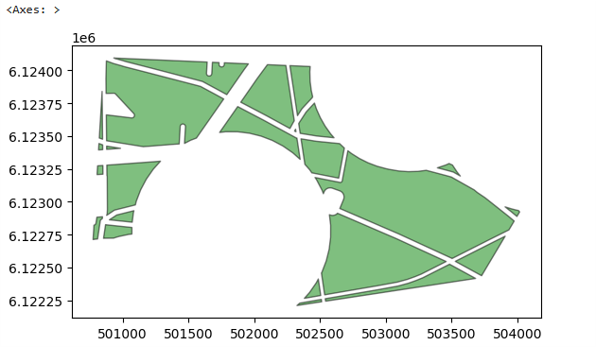
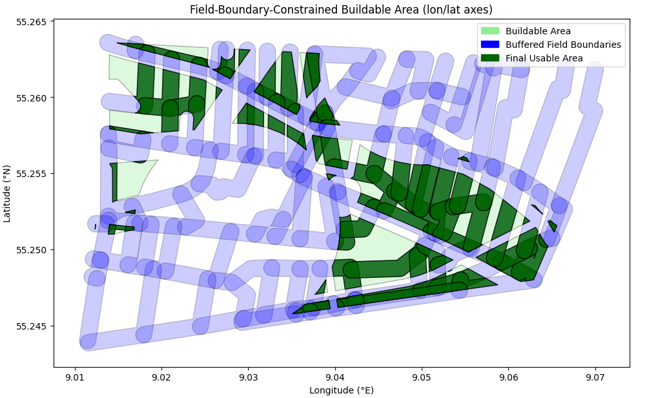
Add 6 project images to wind farm wake page with detailed explanations
Images added:
- windfarm-site-boundary.png: Site definition polygon (9 km², Denmark)
- windfarm-constraints.png: Legal/ecological/logistical siting constraints
- windfarm-buildable.png: Buildable area after constraint screening
- windfarm-windrose.png: Wind resource assessment
- windfarm-layout.png: Initial vs optimized turbine layout
- wake-comparison.png: Wake flow comparison (aligned vs staggered)
- wake-optimized.png: 18-turbine wake comparison (clustered vs spaced)

Approach section expanded with: site definition, constraint screening,
buildable area, resource assessment, turbine selection details.

diff --git a/projects/wind-farm-wake.html b/projects/wind-farm-wake.html
@@ -15,7 +15,7 @@
   <meta property="og:type" content="article" />
   <meta property="og:title" content="Wind-Farm Wake &amp; Layout Optimisation — Abhishek Kuntal" />
   <meta property="og:url" content="https://abhishek-kun96.github.io/projects/wind-farm-wake.html" />
-  <meta property="og:image" content="https://abhishek-kun96.github.io/assets/images/poster-windfarm.jpg" />
+  <meta property="og:image" content="https://abhishek-kun96.github.io/assets/images/windfarm-layout.png" />
   <meta name="twitter:card" content="summary_large_image" />
   <meta name="description" content="FLORIS wake modelling + LandBOSSE balance-of-system cost optimisation for an offshore wind farm layout — TUM design course." />
   <link rel="preconnect" href="https://fonts.googleapis.com" />
@@ -98,26 +98,46 @@
       <div class="case-section">
         <h2>Approach</h2>
         <ul>
-          <li><strong>Resource assessment</strong> — built a site wind rose from reanalysis-style wind roses provided with the course; fit a Weibull distribution per sector for annual energy production (AEP) estimation.</li>
-          <li><strong>Wake modelling in FLORIS</strong> — NREL's FLORIS framework for engineering wake models (Gaussian wake, Jensen cross-check). Swept turbine class (IEC I vs II), hub height, and rotor diameter to pick a turbine sized for the site's mean wind speed and turbulence intensity.</li>
-          <li><strong>Layout optimisation</strong> — ran FLORIS's yaw- and layout-optimisation routines within the lease boundary with minimum-spacing constraints (5D in prevailing direction, 3D cross-wind). Compared a structured grid, a prevailing-wind-aligned staggered layout, and a FLORIS-optimised free layout.</li>
-          <li><strong>BOS costing in LandBOSSE</strong> — NREL's LandBOSSE balance-of-system model for civil works, erection, collection-system cabling, and grid interconnection. Each candidate layout was costed against the same turbine and the same site conditions.</li>
-          <li><strong>LCOE close</strong> — AEP (from FLORIS with wake losses and availability) divided through lifetime cost (LandBOSSE + assumed O&amp;M and turbine CapEx) to give a defensible LCOE ranking rather than a wake-loss-only ranking.</li>
+          <li><strong>Site definition</strong> — defined the project boundary as a quadrilateral polygon with four corner coordinates (WGS84) covering ~9 km² of agricultural land in southern Jutland, Denmark.</li>
+          <li><strong>Constraint screening</strong> — applied legal buffers (740m residential setback, 30m road buffer, 100m power line buffer, 300m forest buffer), ecological buffers (30-100m from wetlands/meadows/streams, 50m voluntary wildlife buffer), and logistical buffers (60m from field boundaries for crane access).</li>
+          <li><strong>Buildable area</strong> — intersected the site boundary with all constraint buffers to identify the final usable area for turbine placement. Less than one-fifth of the total site remained after all exclusions.</li>
+          <li><strong>Resource assessment</strong> — built a site wind rose from reanalysis data; fit Weibull distributions per sector. Dominant wind directions: North (0°) and West (270%), ~29% of total occurrences, with scale parameters 9-11.7 m/s.</li>
+          <li><strong>Turbine selection</strong> — selected IEA 3.4 MW reference turbine (130m rotor, 120m hub height) based on specific power (256 W/m²), logistics (65m blades transportable on Danish roads), and cost efficiency (16-25% cheaper per MW than larger options).</li>
+          <li><strong>Wake modelling in FLORIS</strong> — NREL's FLORIS framework with Gaussian wake model. Swept turbine counts (14-18 turbines) for 45-60 MW target capacity.</li>
+          <li><strong>Layout optimisation</strong> — FLORIS's layout-optimisation routines within the lease boundary with minimum-spacing constraints (5D prevailing, 3D cross-wind). Compared structured grid, staggered, and FLORIS-optimised free layouts.</li>
+          <li><strong>BOS costing in LandBOSSE</strong> — NREL's LandBOSSE model for civil works, erection, collection-system cabling, and grid interconnection. Each candidate layout costed against the same turbine and site conditions.</li>
+          <li><strong>LCOE close</strong> — AEP (from FLORIS with wake losses and availability) divided through lifetime cost (LandBOSSE + assumed O&M and turbine CapEx) to give a defensible LCOE ranking.</li>
         </ul>
       </div>
 
       <div class="case-figures">
         <figure>
+          <img src="../assets/images/windfarm-site-boundary.png" alt="Site 1 boundary polygon — 9 km² agricultural land in southern Jutland, Denmark" />
+          <figcaption>Site definition — quadrilateral boundary polygon (Pt1-Pt4) covering ~9 km² near Kastrup, Denmark. Coordinates: Pt1 (55°15'48.06"N, 9°0'48.68"E) to Pt4 (55°14'39.19"N, 9°0'41.31"E).</figcaption>
+        </figure>
+        <figure>
+          <img src="../assets/images/windfarm-constraints.png" alt="Legal, ecological, and logistical constraints for wind farm siting" />
+          <figcaption>Siting constraints — legal (740m residential, 30m road, 100m power line, 300m forest), ecological (30-100m wetlands/meadows, 50m wildlife), logistical (60m field boundaries for crane access).</figcaption>
+        </figure>
+        <figure>
+          <img src="../assets/images/windfarm-buildable.png" alt="Buildable area after constraint screening — final usable area in dark green" />
+          <figcaption>Buildable area — constraint screening reduces the site to less than one-fifth of total area. Light mint: initial buildable. Light blue: buffered field boundaries. Dark green: final usable area.</figcaption>
+        </figure>
+        <figure>
           <img src="../assets/images/windfarm-windrose.png" alt="Wind rose for Site 1 Denmark showing prevailing wind directions" />
-          <figcaption>Wind rose — Site 1 (Denmark) wind resource assessment showing prevailing directions.</figcaption>
+          <figcaption>Wind resource — Site 1 wind rose showing dominant North (0°) and West (270%) directions. Weibull scale parameters 9-11.7 m/s confirm excellent wind resource potential.</figcaption>
         </figure>
         <figure>
-          <img src="../assets/images/windfarm-buildable.png" alt="Buildable area map with site constraints" />
-          <figcaption>Buildable area — site constraints and exclusion zones for layout optimisation.</figcaption>
+          <img src="../assets/images/windfarm-layout.png" alt="Initial vs optimized turbine layout — red circles initial, blue X optimized, green square substation" />
+          <figcaption>Layout optimization — red circles: initial layout. Blue X: FLORIS-optimized layout. Green square: substation. Optimized layout reduces wake losses through staggered positioning.</figcaption>
         </figure>
         <figure>
-          <img src="../assets/images/windfarm-optimized-layout.png" alt="Optimised turbine layout after 200 iterations" />
-          <figcaption>Optimised layout — turbine positions after 200 iterations of wake-aware optimisation.</figcaption>
+          <img src="../assets/images/wake-comparison.png" alt="Wake flow comparison — initial aligned layout vs optimized staggered layout at hub height" />
+          <figcaption>Wake comparison — initial aligned layout (left) shows significant wake overlap in downstream columns. Optimized staggered layout (right) positions downstream turbines in wake gaps, reducing speed deficit.</figcaption>
+        </figure>
+        <figure>
+          <img src="../assets/images/wake-optimized.png" alt="Wake flow comparison for 18-turbine layout — initial clustered vs optimized spaced arrangement" />
+          <figcaption>18-turbine wake comparison — initial clustered layout (left) with heavy wake overlap (black ellipses). Optimized layout (right) increases spacing, allowing wake recovery before downstream turbines.</figcaption>
         </figure>
       </div>
 
